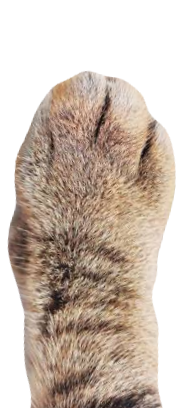
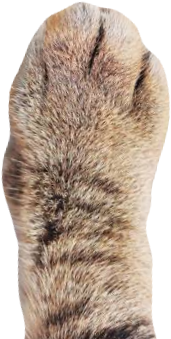
Feature: add paw grab animation to pullcord

diff --git a/styles.css b/styles.css
@@ -143,13 +143,35 @@ html, body {
 
 
 #pullcord {
-  position: absolute;
-  transform: translate(0, -50px);
+  position: relative;
+  height: 100%;
   z-index: 100;  
 }
 
+#pullcord img:first-of-type {
+  transform: translate(0, -10%);
+  height: 80%;
+}
 
-#pullcord :active{
-  transform: translate(0, 20px)
+#paw {
+  height: 35%;
+  position: absolute;
+  bottom: -35%;
+  right: 0;
+}
+
+#pullcord:hover #paw{
+  bottom: 0;
+  transition: bottom 1s;
+}
+
+#pullcord:not(:hover) #paw{
+  bottom: -35%;
+  transition: bottom 1s;
+  
+}
+
+#pullcord:active{
+  transform: translate(0, 15px)
 }
 
